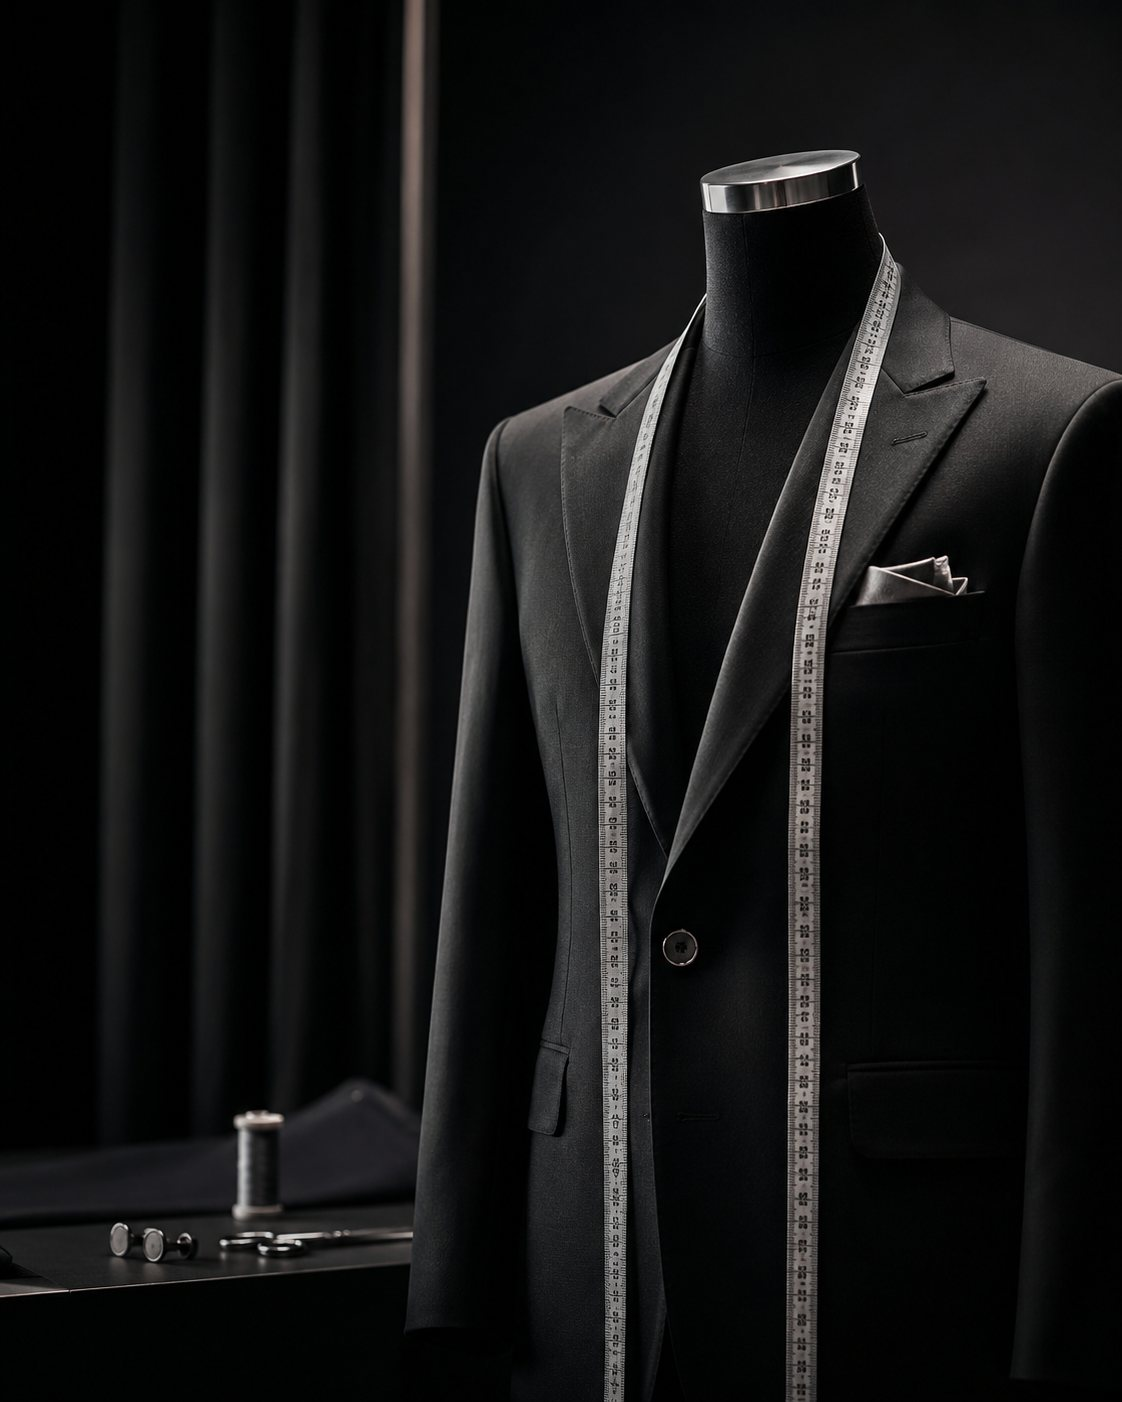
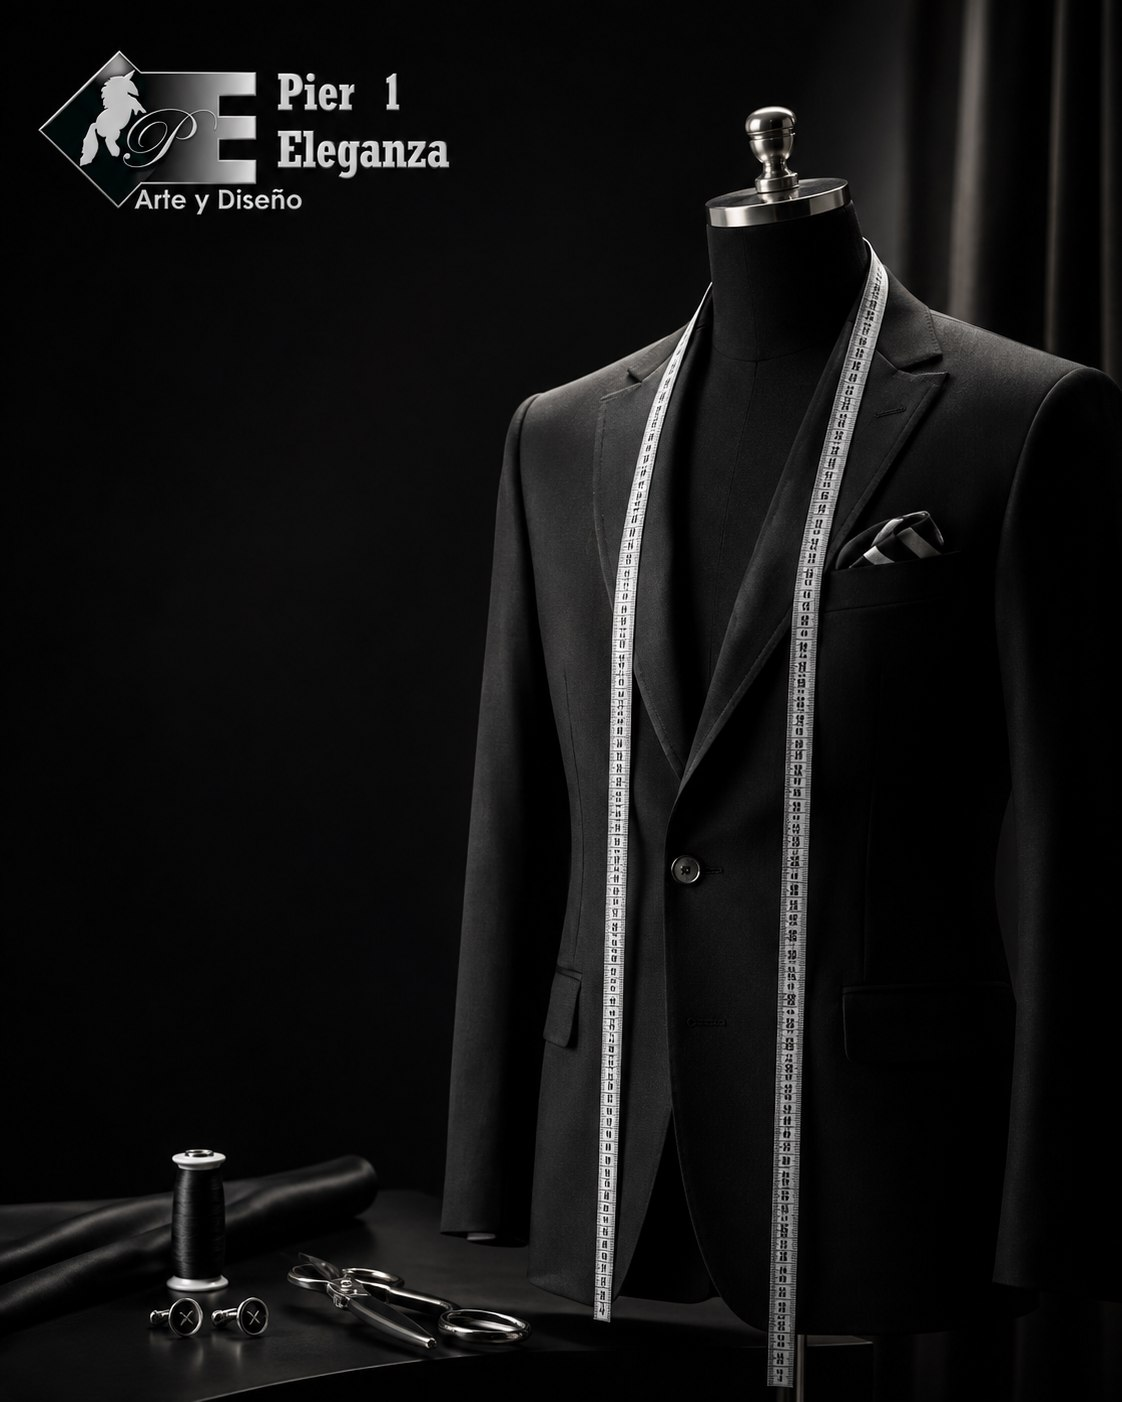
Inicio: hero con foto de estudio y bloque dividido de trajes a medida
- Hero mas corto, con foto limpia del maniqui y borde inferior sin degradado
- La foto vertical se ve completa en un bloque dividido sobre fondo claro
- Boton del bloque pasa a "Ver colecciones"

diff --git a/assets/css/styles.css b/assets/css/styles.css
@@ -339,7 +339,7 @@ h1, h2, h3, h4 {
 /* ---------- Hero ---------- */
 .hero {
   position: relative;
-  min-height: 100vh;
+  min-height: min(86vh, 860px);
   padding-top: var(--header-height);
   display: flex;
   align-items: center;
@@ -360,14 +360,15 @@ h1, h2, h3, h4 {
   width: 100%;
   height: 100%;
   object-fit: cover;
-  opacity: 0.55;
+  object-position: center 38%;
+  opacity: 0.7;
 }
 
 .hero-media::after {
   content: '';
   position: absolute;
   inset: 0;
-  background: linear-gradient(180deg, rgba(10, 10, 11, 0.55) 0%, rgba(10, 10, 11, 0.35) 40%, var(--color-black) 100%);
+  background: linear-gradient(180deg, rgba(10, 10, 11, 0.5) 0%, rgba(10, 10, 11, 0.4) 100%);
 }
 
 .hero-content {
@@ -644,65 +645,40 @@ h1, h2, h3, h4 {
   }
 }
 
-/* ---------- Banner de pieza destacada ---------- */
-.feature-banner {
-  position: relative;
-  min-height: 62vh;
-  display: flex;
-  align-items: flex-end;
-  overflow: hidden;
-  background: var(--color-black);
+/* ---------- Bloque de trajes a medida (foto vertical + texto) ---------- */
+.feature-split {
+  background: var(--color-bg-alt);
 }
 
-.feature-media {
-  position: absolute;
-  inset: 0;
+.feature-grid {
+  display: grid;
+  grid-template-columns: 0.85fr 1.15fr;
+  gap: var(--space-lg);
+  align-items: center;
 }
 
-.feature-media img {
+.feature-photo img {
   width: 100%;
-  height: 100%;
+  height: auto;
+  aspect-ratio: 4 / 5;
   object-fit: cover;
-  opacity: 0.85;
 }
 
-.feature-media::after {
-  content: '';
-  position: absolute;
-  inset: 0;
-  background: linear-gradient(180deg, rgba(18, 18, 20, 0) 25%, rgba(18, 18, 20, 0.85) 100%);
-}
-
-.feature-content {
-  position: relative;
-  z-index: 1;
-  color: var(--color-white);
-  padding-bottom: var(--space-lg);
-}
-
-.feature-content .eyebrow {
-  color: var(--color-accent-strong);
-}
-
-.feature-content h2 {
+.feature-text h2 {
   font-size: clamp(1.9rem, 4vw, 3rem);
-  margin-bottom: 0.6rem;
-  color: var(--color-white);
-  max-width: 640px;
-}
-
-.feature-content p {
-  max-width: 520px;
   margin-bottom: var(--space-sm);
-  color: rgba(255, 255, 255, 0.82);
 }
 
-.feature-note {
-  font-size: 0.8rem;
-  letter-spacing: 0.1em;
-  text-transform: uppercase;
-  color: rgba(255, 255, 255, 0.6);
+.feature-text p:not(.eyebrow) {
+  color: var(--color-text-muted);
+  max-width: 520px;
   margin-bottom: var(--space-md);
+}
+
+@media (max-width: 860px) {
+  .feature-grid {
+    grid-template-columns: 1fr;
+  }
 }
 
 /* ---------- Galería de categorías (pantalla completa) ---------- */
@@ -1036,7 +1012,6 @@ button:focus-visible,
 
 .hero a:focus-visible,
 .cta-band a:focus-visible,
-.feature-banner a:focus-visible,
 .nav-toggle.is-open:focus-visible,
 .nav-links a:focus-visible {
   outline-color: var(--color-accent-strong);

diff --git a/index.html b/index.html
@@ -46,7 +46,7 @@
     <!-- HERO -->
     <section class="hero">
       <div class="hero-media">
-        <img src="assets/img/hero-fondo1.jpg" width="1448" height="1086" alt="Sacos a medida Pier 1 Eleganza exhibidos en el showroom" fetchpriority="high">
+        <img src="assets/img/hero-estudio.jpg" width="1122" height="1402" alt="Traje negro con cinta métrica sobre un maniquí, Pier 1 Eleganza" fetchpriority="high">
       </div>
       <div class="hero-content">
         <p class="eyebrow">Arte y diseño — Quito</p>
@@ -60,16 +60,18 @@
       <span class="scroll-cue" aria-hidden="true"></span>
     </section>
 
-    <!-- PIEZA DESTACADA -->
-    <section class="feature-banner reveal">
-      <div class="feature-media">
-        <img src="assets/img/feature-traje.jpg" width="1122" height="1402" alt="Traje a medida con cinta métrica sobre maniquí, Pier 1 Eleganza" loading="lazy">
-      </div>
-      <div class="feature-content container">
-        <p class="eyebrow">Trajes a medida</p>
-        <h2>Cada traje, diseñado y confeccionado para ti</h2>
-        <p>Trajes finos para damas y caballeros, con diseño exclusivo y confección premium. Seriedad y cumplimiento en cada entrega.</p>
-        <a href="contacto.html" class="btn btn-outline">Agendar una cita</a>
+    <!-- TRAJES A MEDIDA -->
+    <section class="section feature-split">
+      <div class="container feature-grid">
+        <div class="feature-photo reveal">
+          <img src="assets/img/feature-traje.jpg" width="1122" height="1402" alt="Traje negro a medida con cinta métrica sobre un maniquí, Pier 1 Eleganza" loading="lazy">
+        </div>
+        <div class="feature-text reveal">
+          <p class="eyebrow">Trajes a medida</p>
+          <h2>Cada traje, diseñado y confeccionado para ti</h2>
+          <p>Trajes finos para damas y caballeros, con diseño exclusivo y confección premium. Seriedad y cumplimiento en cada entrega.</p>
+          <a href="colecciones.html" class="btn btn-outline">Ver colecciones</a>
+        </div>
       </div>
     </section>
 
